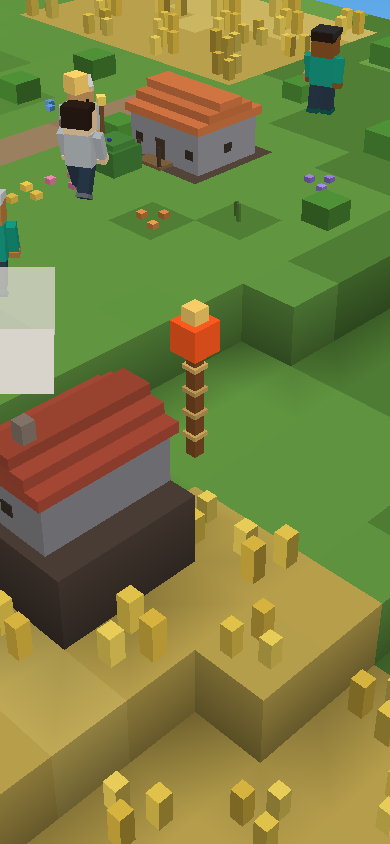
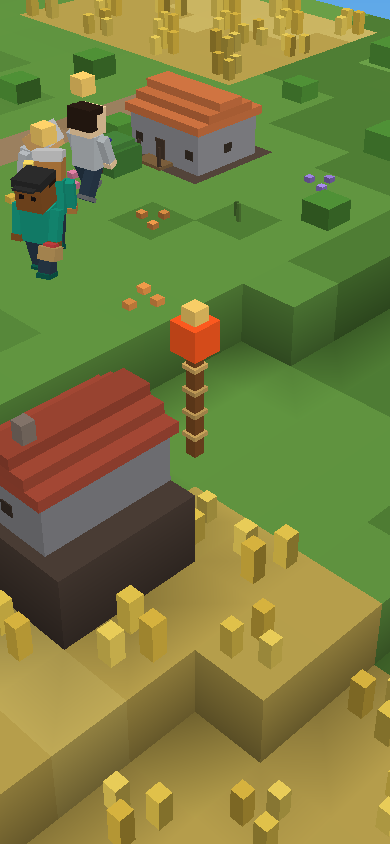
Objects: only scaled down in a hand, thieves by their goal, posts stay put, the cast cap as on the ground
Found by the playtester: a potion scaled up to a villager's torso hid the
goblin holding it; a goblin written with no behavior never stole (not counted
hostile); the library's Storm Lantern, a lamp post 2.5 tall, was carried off;
a legendary wand was weaker in a hand (minor) than on the ground (major).
artDeed moves to held.ts so the two modules import one way only.

Claude-Session: https://claude.ai/code/session_01NxvtApgN8VR6k4qTJJyBZW

Changed region(s): [[0.0, 0.0616, 0.3077, 0.4929], [0.7692, 0.0308, 0.8923, 0.154], [0.3077, 0.3389, 0.4308, 0.3697]]

diff --git a/src/sim/held.ts b/src/sim/held.ts
@@ -3,8 +3,8 @@ import { daylight } from "./daylight";
 import { F } from "./materials";
 import { propBounds } from "./props";
 import { unpackLook } from "./villagers";
-import { deed, life, mindOf, remember, villageOf } from "./kin";
-import { artDeed, type ArtEffectName, type Artifact } from "./artifacts";
+import { deed, life, mindOf, remember, tell, villageOf } from "./kin";
+import type { ArtEffectName, Artifact } from "./artifacts";
 import type { Creature } from "./creatures";
 import type { World } from "./world";
 
@@ -18,6 +18,18 @@ import type { World } from "./world";
 // it from a hand. Everything is read from what artifacts already hold, so the
 // objects of the live library work as they are, with no program rewritten.
 
+// Something an artifact did (3.7; here since 4.7, so held.ts needs nothing
+// from artifacts.ts but types): its count, the world's story, and its last
+// three deeds. A deed after its first 15 s counts for the five minute test.
+const ARRIVAL = 15;
+export function artDeed(world: World, a: Artifact, what: string): void {
+  a.art.actedAt = world.time;
+  a.art.deeds++;
+  tell(world, `the ${a.name} ${what}`);
+  if (world.time - a.art.placed > ARRIVAL) a.art.later++;
+  a.art.did = [what, ...a.art.did.filter((d) => d !== what)].slice(0, 3);
+}
+
 // Seconds an object lies where it was placed before anyone may take it: the
 // player sees what they cast before it walks off.
 export const PICKUP_DELAY = 30;
@@ -27,10 +39,24 @@ export const IDLE_DROP = 120;
 export const HELD_HEAL_BELOW = 0.5;
 // The one who put it down does not take it back for this long.
 const RETAKE_AFTER = 20;
-// What a hand holds is drawn this tall, in cells (a villager is about 1.2).
+// What a hand holds is drawn this tall at most, in cells (a villager is about 1.2).
 export const HELD_SIZE = 0.75;
+
+// How much a model is scaled in a hand: only ever smaller, so a potion drawn
+// small stays small (the playtest of 7 November: scaled up, it hid a goblin).
+export function heldScale(boxes: { x: number; y: number; z: number; w: number; d: number; h: number }[]): number {
+  let across = 0;
+  let top = 0;
+  for (const b of boxes) top = Math.max(top, b.z + b.h);
+  const xs = boxes.flatMap((b) => [b.x, b.x + b.w]);
+  const ys = boxes.flatMap((b) => [b.y, b.y + b.d]);
+  if (boxes.length) across = Math.max(Math.max(...xs) - Math.min(...xs), Math.max(...ys) - Math.min(...ys));
+  return Math.min(1, HELD_SIZE / Math.max(0.05, across, top));
+}
 // A thief takes from a hand within this distance.
 const STEAL_REACH = 1.5;
+
+const LONG = /\b(staff|staves|spear|lance|pike|wand|rod|scepter|sceptre|sword|blade|halberd|trident|scythe|cane|crook)s?\b/i;
 
 // Used up by its first effect that does something: what a name says is drunk, read or thrown.
 const CONSUMABLE = /\b(potion|elixir|draught|tonic|vial|flask|brew|scroll|bomb|seed|apple)s?\b/i;
@@ -55,9 +81,13 @@ export function portable(world: World, a: Artifact): boolean {
   if (!s.effects.length && !s.pairs.length && !s.grants.length) return false;
   if (s.grants.some((g) => g.what === "water" || g.what === "prayer" || g.what === "arms")) return false;
   if (s.uses.some((u) => u.do === "guard" || u.do === "worship")) return false;
+  // Held in one hand: no wider than 1.5 cells, and no taller than 2 voxels
+  // (a villager is 1.2) unless it is a long thing held upright, a staff or a
+  // spear. A lantern post 2.5 tall stays put (the playtest of 7 November).
+  const long = LONG.test(a.name);
   for (const p of propsOf(world, a)) {
     const b = propBounds(p);
-    if (b.across > 1.5 || b.tall > 3) return false;
+    if (b.across > 1.5 || b.tall > (long ? 3 : 2)) return false;
   }
   return true;
 }
@@ -80,8 +110,7 @@ const FIELD: ArtEffectName[] = ["grow", "water", "rain", "food"];
 // its people hold one, so an island never ends with every object in a hand.
 export function wantsToTake(world: World, c: Creature, a: Artifact): boolean {
   if (c.dead || holding(world, c) || !free(world, a, c)) return false;
-  const m = mindOf(c);
-  if (c.kind !== "villager") return m.goal === "steal" && life.hostile(c);
+  if (c.kind !== "villager") return thief(c);
   const look = unpackLook(c.look);
   if (look.age !== "adult") return false;
   const v = villageOf(world, c.homeX, c.homeY);
@@ -107,6 +136,18 @@ export function wantsToTake(world: World, c: Creature, a: Artifact): boolean {
       return any(FIELD) || grants.has("food");
   }
   return does.has("light") && daylight(world.time).night > 0.4;
+}
+
+// A creature whose goal is to steal (a goblin, a bandit, a magpie by its
+// name, goals.ts), whatever else it does: a plain goblin is no hunter, so
+// it is not counted hostile, and it still steals (the playtest of 7 November).
+export function thief(c: Creature): boolean {
+  return c.kind !== "villager" && mindOf(c).goal === "steal";
+}
+
+// Which side a creature is on: the village's, or against it (hostile or a thief).
+function against(c: Creature): boolean {
+  return life.hostile(c) || thief(c);
 }
 
 export function holding(world: World, c: Creature): Artifact | null {
@@ -198,9 +239,9 @@ export function stepHeld(world: World, a: Artifact): Creature | null {
   if (c.hp < (s.holderHp ?? c.hp) - 1) s.hurtAt = world.time;
   s.holderHp = c.hp;
   // A thief within reach takes it from the hand (not from another thief).
-  if (!life.hostile(c))
+  if (!thief(c))
     for (const o of world.crowd.near(world, c.x, c.y, STEAL_REACH)) {
-      if (o === c || o.dead || !life.hostile(o) || mindOf(o).goal !== "steal" || holding(world, o)) continue;
+      if (o === c || o.dead || !thief(o) || holding(world, o)) continue;
       dropHeld(world, a, c, c.id);
       take(world, o, a, c);
       deed(c, `was robbed of the ${a.name}`);
@@ -218,21 +259,21 @@ export function stepHeld(world: World, a: Artifact): Creature | null {
 // badly hurt (drunk at 89% health it would be wasted). What is not used up
 // heals in a hand as it does on the ground.
 export function heldHealNeeded(world: World, holder: Creature, r: number): boolean {
-  const side = life.hostile(holder);
+  const side = against(holder);
   for (const o of world.crowd.near(world, holder.x, holder.y, Math.max(1, r)))
-    if (!o.dead && life.hostile(o) === side && (o.hp < life.maxHp(o) * HELD_HEAL_BELOW || o.burning > 0)) return true;
+    if (!o.dead && against(o) === side && (o.hp < life.maxHp(o) * HELD_HEAL_BELOW || o.burning > 0)) return true;
   return false;
 }
 
 // The enemy of a held object's holder: a hostile holder's are the villagers
 // (or its prey), anyone else's are the hostile.
 export function heldEnemy(world: World, holder: Creature, r: number): Creature | null {
-  const side = life.hostile(holder);
+  const side = against(holder);
   let best: Creature | null = null;
   let bestD = r;
   for (const o of world.crowd.near(world, holder.x, holder.y, r)) {
     if (o === holder || o.dead) continue;
-    if (side ? o.kind !== "villager" : !life.hostile(o)) continue;
+    if (side ? o.kind !== "villager" : !against(o)) continue;
     const d = Math.hypot(o.x - holder.x, o.y - holder.y);
     if (d < bestD) {
       bestD = d;

diff --git a/scripts/held-test.ts b/scripts/held-test.ts
@@ -7,7 +7,7 @@ import { TICK, generateWorld, type World } from "../src/sim/world";
 import { makeCreature, maxHp, populate, resetCreatureIds, type Creature } from "../src/sim/creatures";
 import { seeded } from "../src/sim/noise";
 import { isArtifact, loadedState, stepArtifacts, type Artifact } from "../src/sim/artifacts";
-import { PICKUP_DELAY, IDLE_DROP, holding, portable, take, wantsToTake } from "../src/sim/held";
+import { PICKUP_DELAY, IDLE_DROP, heldScale, holding, portable, take, wantsToTake } from "../src/sim/held";
 import { mindOf } from "../src/sim/kin";
 import { packLook, unpackLook } from "../src/sim/villagers";
 import type { Tier } from "../shared/tiers";
@@ -22,6 +22,10 @@ const POTION = `const spell = { *cast(w) { w.artifact(w.x, w.y, { name: "Healing
 const LANTERN_POST = `const spell = { *cast(w) { w.artifact(w.x, w.y, { name: "Lantern Post", effects: [{ when: "night", do: "light", radius: 6 }] }); ${MODEL(4, "#333333")} } };`;
 const WELL = `const spell = { *cast(w) { w.artifact(w.x, w.y, { name: "Wishing Lamp", grants: ["water"] }); ${MODEL(0.5, "#6688aa")} } };`;
 const RAIDER = `{ name: "goblin", base: "beast", color: "#3a6a2a", speed: 3, hp: 80, behavior: "hunt", prey: ["villager"], attack: 4, sense: 30, lifespan: 300 }`;
+// A goblin as a spell most often writes one: no behavior, its goal (steal) from its name.
+const GOBLIN = `{ name: "goblin", base: "beast", color: "#3a6a2a", speed: 3, hp: 80, lifespan: 300 }`;
+// The library's Storm Lantern, drawn as a lamp post 2.5 tall with an arm: never carried.
+const STORM_LANTERN = `const spell = { *cast(w) { w.artifact(w.x, w.y, { name: "Storm Lantern", effects: [{ when: "night", do: "light", radius: 6 }] }); w.model(w.x, w.y, [[-0.08, -0.08, 0, 0.16, 0.16, 2.2, "#333333"], [0, -0.05, 2.0, 0.5, 0.1, 0.1, "#333333"], [0.35, -0.15, 1.7, 0.3, 0.3, 0.35, "#ffd36a", "glow"]], { name: "look" }); } };`;
 
 interface Isl {
   world: World;
@@ -78,11 +82,15 @@ export function heldChecks(check: Check): void {
     const staff = place(isl, STAFF, "staff");
     const post = place(isl, LANTERN_POST, "post", "major", 6);
     const lamp = place(isl, WELL, "lamp", "major", -6);
+    const storm = place(isl, STORM_LANTERN, "storm", "major", 10);
     check(
-      "a staff can be carried; a lantern post four voxels tall and a lamp people draw water at cannot",
-      portable(isl.world, staff) && !portable(isl.world, post) && !portable(isl.world, lamp),
-      `${portable(isl.world, staff)} ${portable(isl.world, post)} ${portable(isl.world, lamp)}`,
+      "a staff can be carried; a lantern post four voxels tall, a storm lantern drawn as a post 2.5 tall and a lamp people draw water at cannot",
+      portable(isl.world, staff) && !portable(isl.world, post) && !portable(isl.world, lamp) && !portable(isl.world, storm),
+      `${portable(isl.world, staff)} ${portable(isl.world, post)} ${portable(isl.world, lamp)} ${portable(isl.world, storm)}`,
     );
+    const small = [{ x: -0.1, y: -0.1, z: 0, w: 0.2, d: 0.2, h: 0.4 }];
+    const tall = [{ x: -0.1, y: -0.1, z: 0, w: 0.2, d: 0.2, h: 2.2 }];
+    check("a model in a hand is only ever made smaller", heldScale(small) === 1 && heldScale(tall) < 0.4, `${heldScale(small)} ${heldScale(tall).toFixed(2)}`);
     const guard = person(isl.world, staff.x + 1, staff.y, "guard");
     const farmer = person(isl.world, staff.x - 1, staff.y, "farmer");
     const child = person(isl.world, staff.x, staff.y + 1, "guard", "child");
@@ -192,13 +200,13 @@ export function heldChecks(check: Check): void {
     isl.world.time += PICKUP_DELAY;
     take(isl.world, guard, staff);
     isl.rt.cast(
-      { key: "thief", name: "Thief", tier: "minor", code: `const spell = { creatures: [${RAIDER}], *cast(w) { w.spawn("goblin", w.x + 0.8, w.y); } };` },
+      { key: "thief", name: "Thief", tier: "minor", code: `const spell = { creatures: [${GOBLIN}], *cast(w) { w.spawn("goblin", w.x + 0.8, w.y); } };` },
       guard.x,
       guard.y,
     );
     stepHeadless(isl.world, isl.rt);
     const thief = isl.world.creatures.find((c) => c.kind.startsWith("goblin"))!;
-    mindOf(thief).goal = "steal";
+    // Its goal is its own (a goblin steals, by its name), not set by the test.
     let stolen = false;
     run(isl, 2, () => {
       guard.x = staff.x;
@@ -208,9 +216,9 @@ export function heldChecks(check: Check): void {
       stolen ||= staff.art.heldBy === thief.id;
     });
     check(
-      "a goblin at a guard's side steals the staff from its hand",
-      stolen && holding(isl.world, thief) === staff,
-      `held by ${staff.art.heldBy}, thief ${thief.id}`,
+      "a goblin written with no behavior, a thief by its name, steals the staff from a guard's hand",
+      stolen && holding(isl.world, thief) === staff && mindOf(thief).goal === "steal",
+      `held by ${staff.art.heldBy}, thief ${thief.id}, its goal ${mindOf(thief).goal}`,
     );
   }
   {
@@ -234,7 +242,7 @@ export function heldChecks(check: Check): void {
     check("a loaded world holds nothing in a hand (creatures get new ids)", loaded?.heldBy === null, String(loaded?.heldBy));
   }
 
-  // A cast from a hand is a creature's: never above minor.
+  // A cast from a hand is capped as on the ground: carrying makes it neither stronger nor weaker.
   {
     const isl = island();
     const code = `const spell = { *cast(w) { w.artifact(w.x, w.y, { name: "Storm Wand", effects: [{ when: "every", do: "cast", spell: "Meteor Storm", every: 30 }] }); ${MODEL(0.8, "#aaaaff")} } };`;
@@ -249,6 +257,6 @@ export function heldChecks(check: Check): void {
       isl.world.tick++;
       stepArtifacts(isl.world);
     }
-    check("a legendary wand in a hand casts at minor at most", caps.length > 0 && caps.every((c) => c === "minor"), caps.join(","));
+    check("a legendary wand in a hand casts as it does on the ground, at major at most", caps.length > 0 && caps.every((c) => c === "major"), caps.join(","));
   }
 }

diff --git a/src/sim/artifacts.ts b/src/sim/artifacts.ts
@@ -4,8 +4,9 @@ import { C, F, G } from "./materials";
 import { names, type Landmark } from "./social";
 import { packLook, unpackLook } from "./villagers";
 import { WARD, addWard, warded } from "./wards";
-import { deed, life, markAt, mindOf, reborn, remember, tell, villageOf } from "./kin";
-import { consumable, heldEnemy, heldGrant, heldHealNeeded, stepHeld, take, useUp, wantsToTake } from "./held";
+import { deed, life, markAt, mindOf, reborn, remember, villageOf } from "./kin";
+import { artDeed, consumable, heldEnemy, heldGrant, heldHealNeeded, stepHeld, take, useUp, wantsToTake } from "./held";
+export { artDeed };
 import type { Creature } from "./creatures";
 import type { World } from "./world";
 
@@ -144,22 +145,11 @@ export interface ArtHooks {
 }
 
 // Artifacts cast library spells at most at major; creatures at minor (abilities.ts).
+// The same in a hand (4.7): carrying makes a spell neither stronger nor weaker.
 export const ARTIFACT_CAST_CAP: Tier = "major";
-// In a hand, as a creature's ability: carrying never makes a spell stronger (4.7).
-export const HELD_CAST_CAP: Tier = "minor";
 
 export function capTier(a: Tier, b: Tier): Tier {
   return TIERS.indexOf(a) <= TIERS.indexOf(b) ? a : b;
-}
-
-const ARRIVAL = 15;
-
-export function artDeed(world: World, a: Artifact, what: string): void {
-  a.art.actedAt = world.time;
-  a.art.deeds++;
-  tell(world, `the ${a.name} ${what}`);
-  if (world.time - a.art.placed > ARRIVAL) a.art.later++;
-  a.art.did = [what, ...a.art.did.filter((d) => d !== what)].slice(0, 3);
 }
 
 function cell(world: World, x: number, y: number): number {
@@ -395,14 +385,7 @@ export function doEffect(world: World, a: Artifact, what: ArtEffectName, arg: st
     case "cast":
       return (
         !!arg &&
-        !!world.magic?.cast(
-          arg,
-          target ? target.x : x,
-          target ? target.y : y,
-          capTier(a.art.tier, a.art.heldBy != null ? HELD_CAST_CAP : ARTIFACT_CAST_CAP),
-          a.name,
-          !!target && !target.dead,
-        )
+        !!world.magic?.cast(arg, target ? target.x : x, target ? target.y : y, capTier(a.art.tier, ARTIFACT_CAST_CAP), a.name, !!target && !target.dead)
       );
     case "code":
       return !!world.magic?.run(a, arg, target);

diff --git a/src/sim/voxel/props.ts b/src/sim/voxel/props.ts
@@ -1,7 +1,7 @@
 import { BufferAttribute, BufferGeometry, Mesh, type Material, type Scene } from "three";
 import type { World } from "../world";
 import type { Prop } from "../props";
-import { HELD_SIZE } from "../held";
+import { heldScale } from "../held";
 import { pushBox, type Box } from "./models";
 import { columnTop } from "./terrain";
 
@@ -52,15 +52,13 @@ export class PropModels {
       let x1 = -Infinity;
       let y0 = Infinity;
       let y1 = -Infinity;
-      let top = 0;
       for (const b of p.boxes) {
         x0 = Math.min(x0, b.x);
         x1 = Math.max(x1, b.x + b.w);
         y0 = Math.min(y0, b.y);
         y1 = Math.max(y1, b.y + b.d);
-        top = Math.max(top, b.z + b.h);
       }
-      const k = HELD_SIZE / Math.max(0.05, x1 - x0, y1 - y0, top);
+      const k = heldScale(p.boxes);
       const [mx, my] = [(x0 + x1) / 2, (y0 + y1) / 2];
       const side = c.hd - Math.PI / 2;
       const hx = c.x + 0.5 + Math.cos(c.hd) * 0.15 + Math.cos(side) * 0.3 - world.w / 2;

diff --git a/docs/DESIGN.md b/docs/DESIGN.md
@@ -904,14 +904,14 @@ The judge is asked of each item: "does this look and act like a <name>?", and an
 
 The roadmap: "a staff throws its fireball, a potion heals once, a lantern lights the way". Before 4.7 an object item lay where it was cast and acted from there, like a shrine. Now (`src/sim/held.ts`) it is taken, carried and used, read from what artifacts already hold, so the live library's objects work as they are and no program is rewritten.
 
-1. **What can be carried**: an object by its kind (the one its spell was written for, else its name: a staff, a potion, a lantern; not a shrine or a well), whose fine models are at most 1.5 cells across and 3 voxels tall (a Lantern Post is not), that does something (an effect, a pair or a grant: a look alone stays where it was put), grants no water, prayer or arms and that nobody guards or worships at. It lies where it was cast for 30 s first (`PICKUP_DELAY`), so the player sees what they made.
-2. **Who takes it**: an adult villager it suits, on the 40 s round of artifact visits (3.7): a guard what burns, freezes, strikes, shields or casts; a priest what heals or revives; a farmer what grows, waters or feeds; a mage or a necromancer anything; anyone a light by night. One object a hand, and at most a quarter of a village's people hold one. A thief (a hostile creature whose goal is to steal) takes one from the ground, or from a hand within 1.5 cells, and the one robbed remembers it.
-3. **Used from the hand**: it stands where its holder stands, so every effect, pair and radius goes with it. Its enemies are its holder's (a thief's staff burns villagers). "When hurt" means its holder was hurt. A potion's heal (anything used up, item 4) waits until its holder, or a friend in reach, is under half health (`HELD_HEAL_BELOW`), so it is never drunk at 89%; what is not used up heals as it does on the ground. Being taken counts as a deed of the object, as a grant drawn does (3.7), so an object carried off still passes its five minute test. A heal or food grant serves its holder. A spell cast from a hand is at most minor, as a creature's ability is (`HELD_CAST_CAP`), so carrying never makes a spell stronger.
+1. **What can be carried**: an object by its kind (the one its spell was written for, else its name: a staff, a potion, a lantern; not a shrine or a well), whose fine models are at most 1.5 cells across and 2 voxels tall, 3 for a long thing held upright (a staff, a spear, a wand, a sword: by its name); a Lantern Post, or a Storm Lantern drawn as a post 2.5 tall, stays put, that does something (an effect, a pair or a grant: a look alone stays where it was put), grants no water, prayer or arms and that nobody guards or worships at. It lies where it was cast for 30 s first (`PICKUP_DELAY`), so the player sees what they made.
+2. **Who takes it**: an adult villager it suits, on the 40 s round of artifact visits (3.7): a guard what burns, freezes, strikes, shields or casts; a priest what heals or revives; a farmer what grows, waters or feeds; a mage or a necromancer anything; anyone a light by night. One object a hand, and at most a quarter of a village's people hold one. A thief (a creature whose goal is to steal, as a goblin, a bandit or a magpie has from its name, hostile or not) takes one from the ground, or from a hand within 1.5 cells, and the one robbed remembers it.
+3. **Used from the hand**: it stands where its holder stands, so every effect, pair and radius goes with it. Its enemies are its holder's (a thief's staff burns villagers; a thief is on the hostile side). "When hurt" means its holder was hurt. A potion's heal (anything used up, item 4) waits until its holder, or a friend in reach, is under half health (`HELD_HEAL_BELOW`), so it is never drunk at 89%; what is not used up heals as it does on the ground. Being taken counts as a deed of the object, as a grant drawn does (3.7), so an object carried off still passes its five minute test. A heal or food grant serves its holder. A spell cast from a hand is capped as on the ground (`ARTIFACT_CAST_CAP`, major), so carrying makes it neither stronger nor weaker (a first version capped it at minor, and a playtest found a legendary wand weaker in a hand than on the ground).
 4. **Used up**: a potion, an elixir, a draught, a tonic, a vial, a flask, a brew, a scroll, a bomb, a seed or an apple is gone after its first effect that does something.
 5. **Out of the hand**: at its holder's death it falls where the holder died (in deep water or lava it is lost); a thief steals it; after 120 s with nothing done it is put down (`IDLE_DROP`), and its holder does not take it back for 20 s. A world that loads holds nothing in a hand, since creatures get new ids: each object lies where its holder last stood.
-6. **Seen**: its own fine model goes into its holder's right hand, 0.75 cells tall at most and turned the way the holder faces (`src/sim/voxel/props.ts`), so a Fire Staff looks like the staff Claude drew, not a stock one. A puff and a chime on the take. The inspect card says "Holds the Fire Staff (2 charges)"; the object's own deeds say who took or stole it.
+6. **Seen**: its own fine model goes into its holder's right hand, made smaller to 0.75 cells tall at most and never larger (`heldScale`; scaled up, a potion hid the goblin holding it) and turned the way the holder faces (`src/sim/voxel/props.ts`), so a Fire Staff looks like the staff Claude drew, not a stock one. A puff and a chime on the take. The inspect card says "Holds the Fire Staff (2 charges)"; the object's own deeds say who took or stole it.
 
-`npm test` (`scripts/held-test.ts`) checks who may carry what, a guard walking to a staff and taking it, a staff burning a goblin that comes at its guard twelve cells from where it lay, a potion kept at 80% health and drunk at 30%, the drop at death, the theft, the idle drop, a loaded world, and a legendary wand casting at minor from a hand. Each of the staff, potion and cast checks was seen to fail with its rule taken out.
+`npm test` (`scripts/held-test.ts`) checks who may carry what, a guard walking to a staff and taking it, a staff burning a goblin that comes at its guard twelve cells from where it lay, a potion kept at 80% health and drunk at 30%, the drop at death, the theft by a goblin written with no behavior, the idle drop, a loaded world, a storm lantern drawn as a post, the scale in a hand, and a legendary wand casting at major from a hand. Each of the staff, potion, cast, theft, post and scale checks was seen to fail with its rule taken out.
 
 ## Challenges
 
